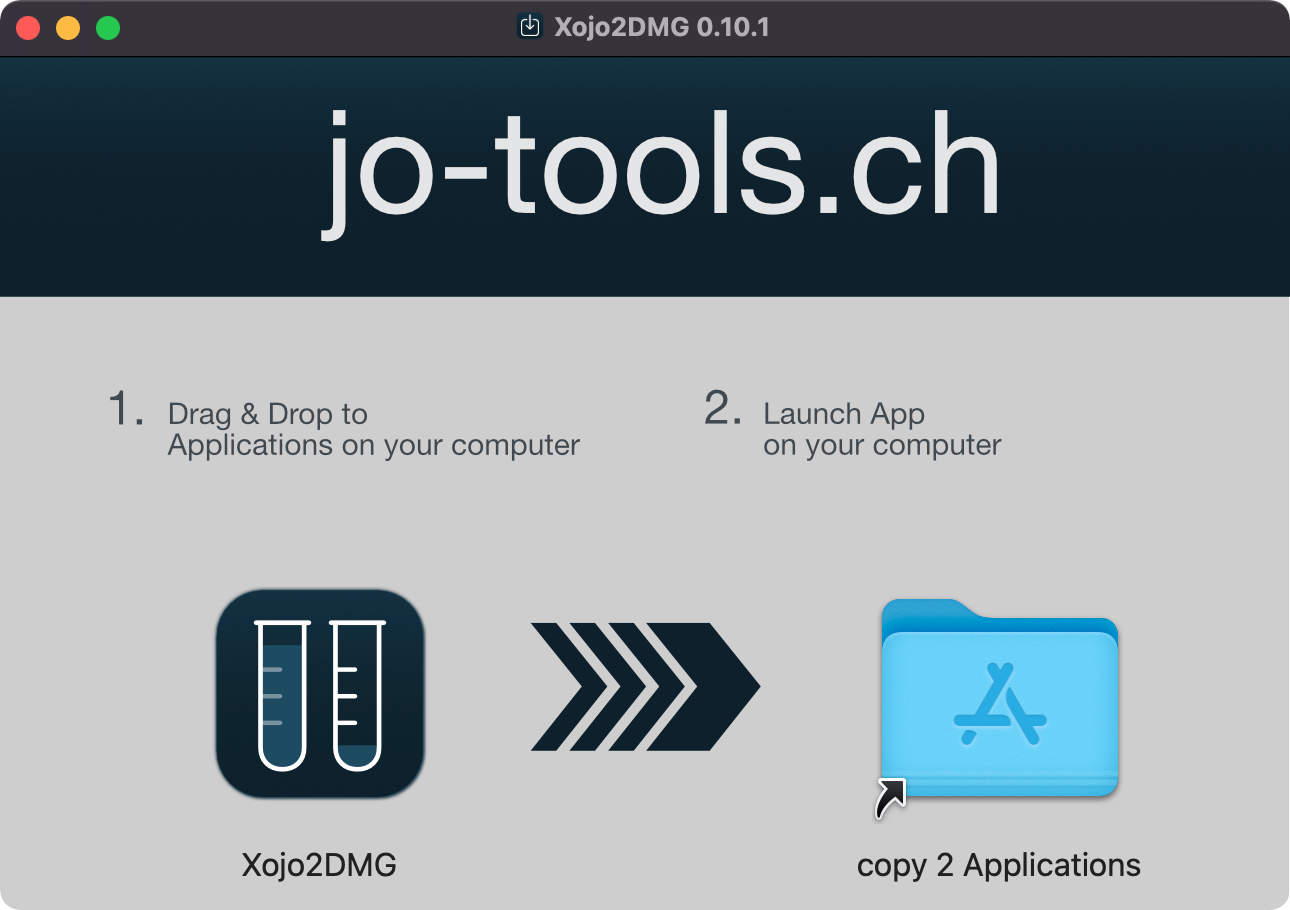
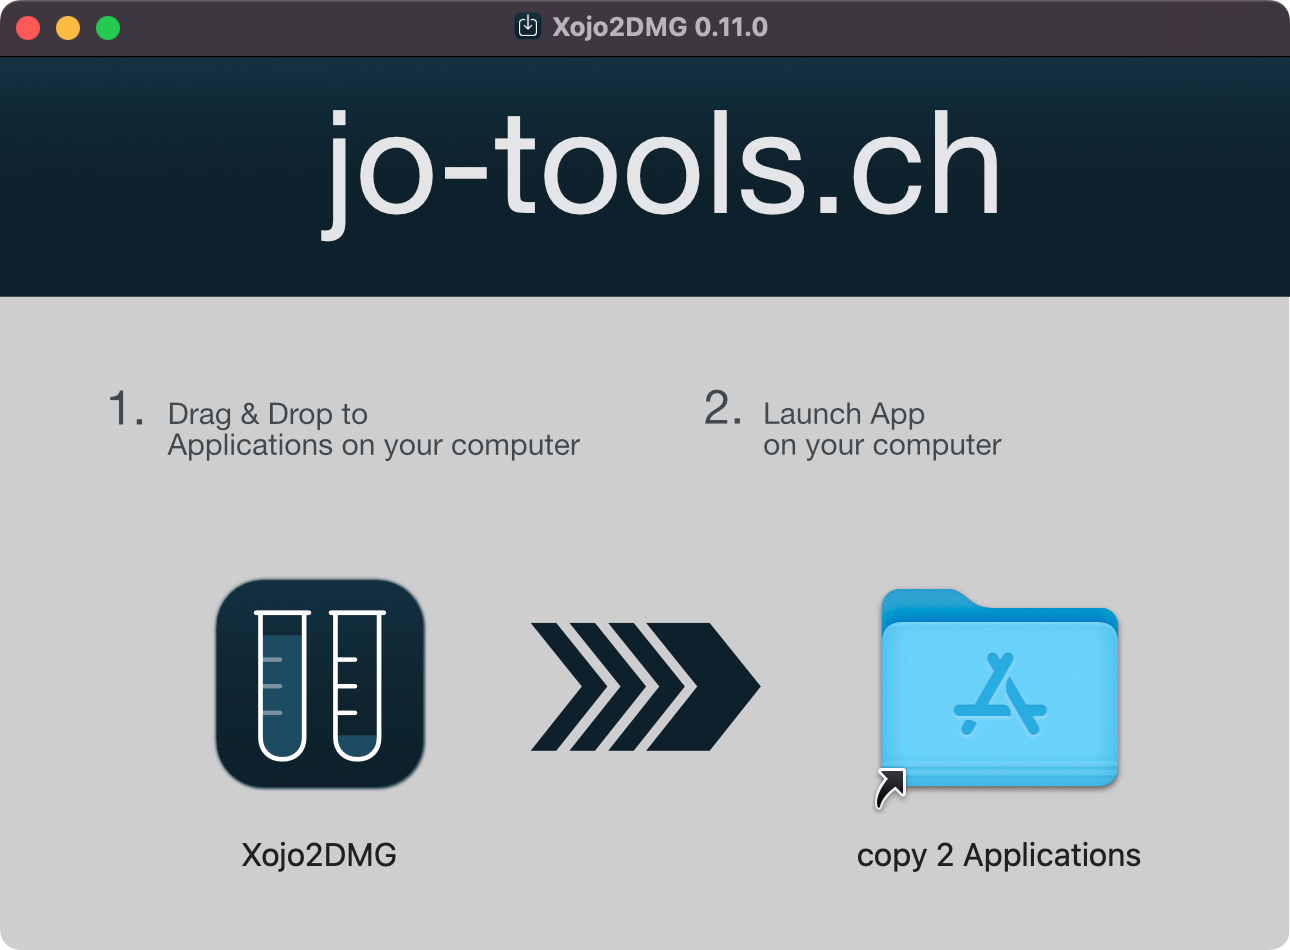
Update ReadMe and ScreenShots

diff --git a/README.md b/README.md
@@ -20,7 +20,7 @@ You can easily customize the DiskImage's appearance by setting a couple of Varia
 5. Notarization: Xcode 11, macOS 10.13.6
 
 ### ScreenShots
-[This DMG](example-build/Xojo2DMG.dmg) has been created with Xojo2DMG *(built with Xojo 2021r3.1, macOS 12.2, Xcode 13.2.1 for CodeSigning/Notarization)*. It contains the built example app *(built as macOS Universal: x86_64 & ARM64)*.
+[This DMG](example-build/Xojo2DMG.dmg) has been created with Xojo2DMG *(built with Xojo 2022r2, macOS 12.6, Xcode 14.0.1 for CodeSigning/Notarization)*. It contains the built example app *(built as macOS Universal: x86_64 & ARM64)*.
 ![ScreenShot: Disk Image](screenshots/xojo2dmg_screenshot_1.png?raw=true)
 
 Xojo IDE with the Post Build Script:  
